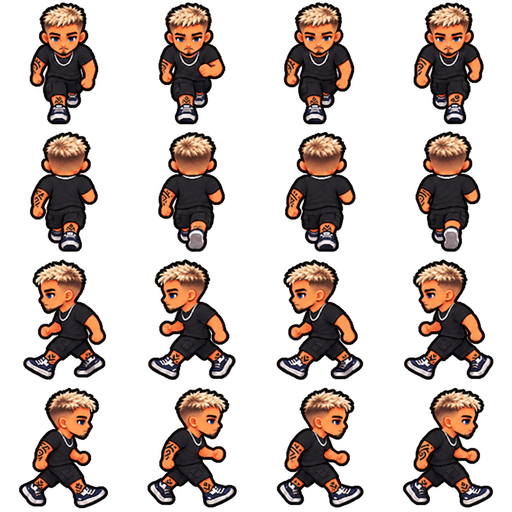
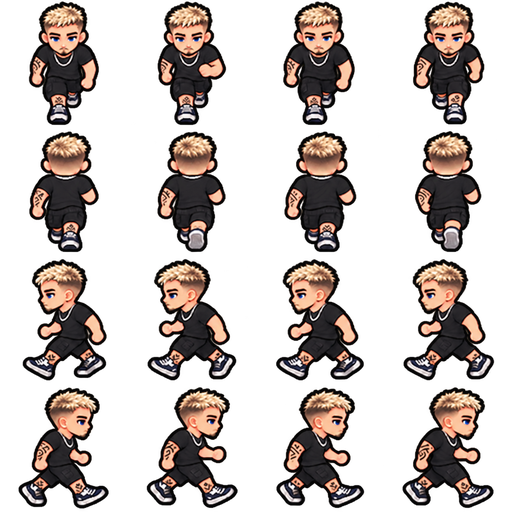
Lighten Thalys skin tone and make eyes blue

diff --git a/style.css b/style.css
@@ -114,7 +114,7 @@
 
 .ultimate.math-ultimate{border-color:#58dfff;background:linear-gradient(145deg,#1885a7,#1d476d);box-shadow:0 0 28px #58dfff70}.ultimate.math-ultimate:disabled{filter:saturate(.45);opacity:.8}
 
- .character-art-thalys{background-image:url('assets/thalys-walk.png?v=one-arm-tattoo-20261011')}
+ .character-art-thalys{background-image:url('assets/thalys-walk.png?v=light-skin-blue-eyes-20261011')}
 .ultimate.thalys-ultimate{border-color:#ffe08a;background:linear-gradient(145deg,#ae7a29ed,#71512bed);box-shadow:0 0 28px #ffcf6155}
 .ultimate.thalys-ultimate:disabled{filter:saturate(.48);opacity:.8}
 .desktop-ultimate.thalys-ultimate{border-color:#ffe08a80;box-shadow:0 8px 24px #0009,0 0 20px #ffcf6130}

diff --git a/game.js b/game.js
@@ -65,7 +65,7 @@
   const caetanoAtlas = new Image();
   caetanoAtlas.src = 'assets/caetano-walk.png';
   const thalysAtlas = new Image();
-  thalysAtlas.src = 'assets/thalys-walk.png?v=one-arm-tattoo-20261011';
+  thalysAtlas.src = 'assets/thalys-walk.png?v=light-skin-blue-eyes-20261011';
   const loadEvolutionAtlas = (file) => { const image = new Image(); image.src = `assets/evolutions/${file}.png`; return image; };
   const evolutionAtlases = {
     jao: { 1: loadEvolutionAtlas('jao-stage1'), 2: loadEvolutionAtlas('jao-stage2') },

diff --git a/index.html b/index.html
@@ -115,6 +115,6 @@
       <button id="retry-button" class="primary">TENTAR DE NOVO</button>
     </section>
   </main>
-  <script src="game.js?v=thalys-one-arm-tattoo-20261011"></script>
+  <script src="game.js?v=thalys-light-skin-blue-eyes-20261011"></script>
 </body>
 </html>
